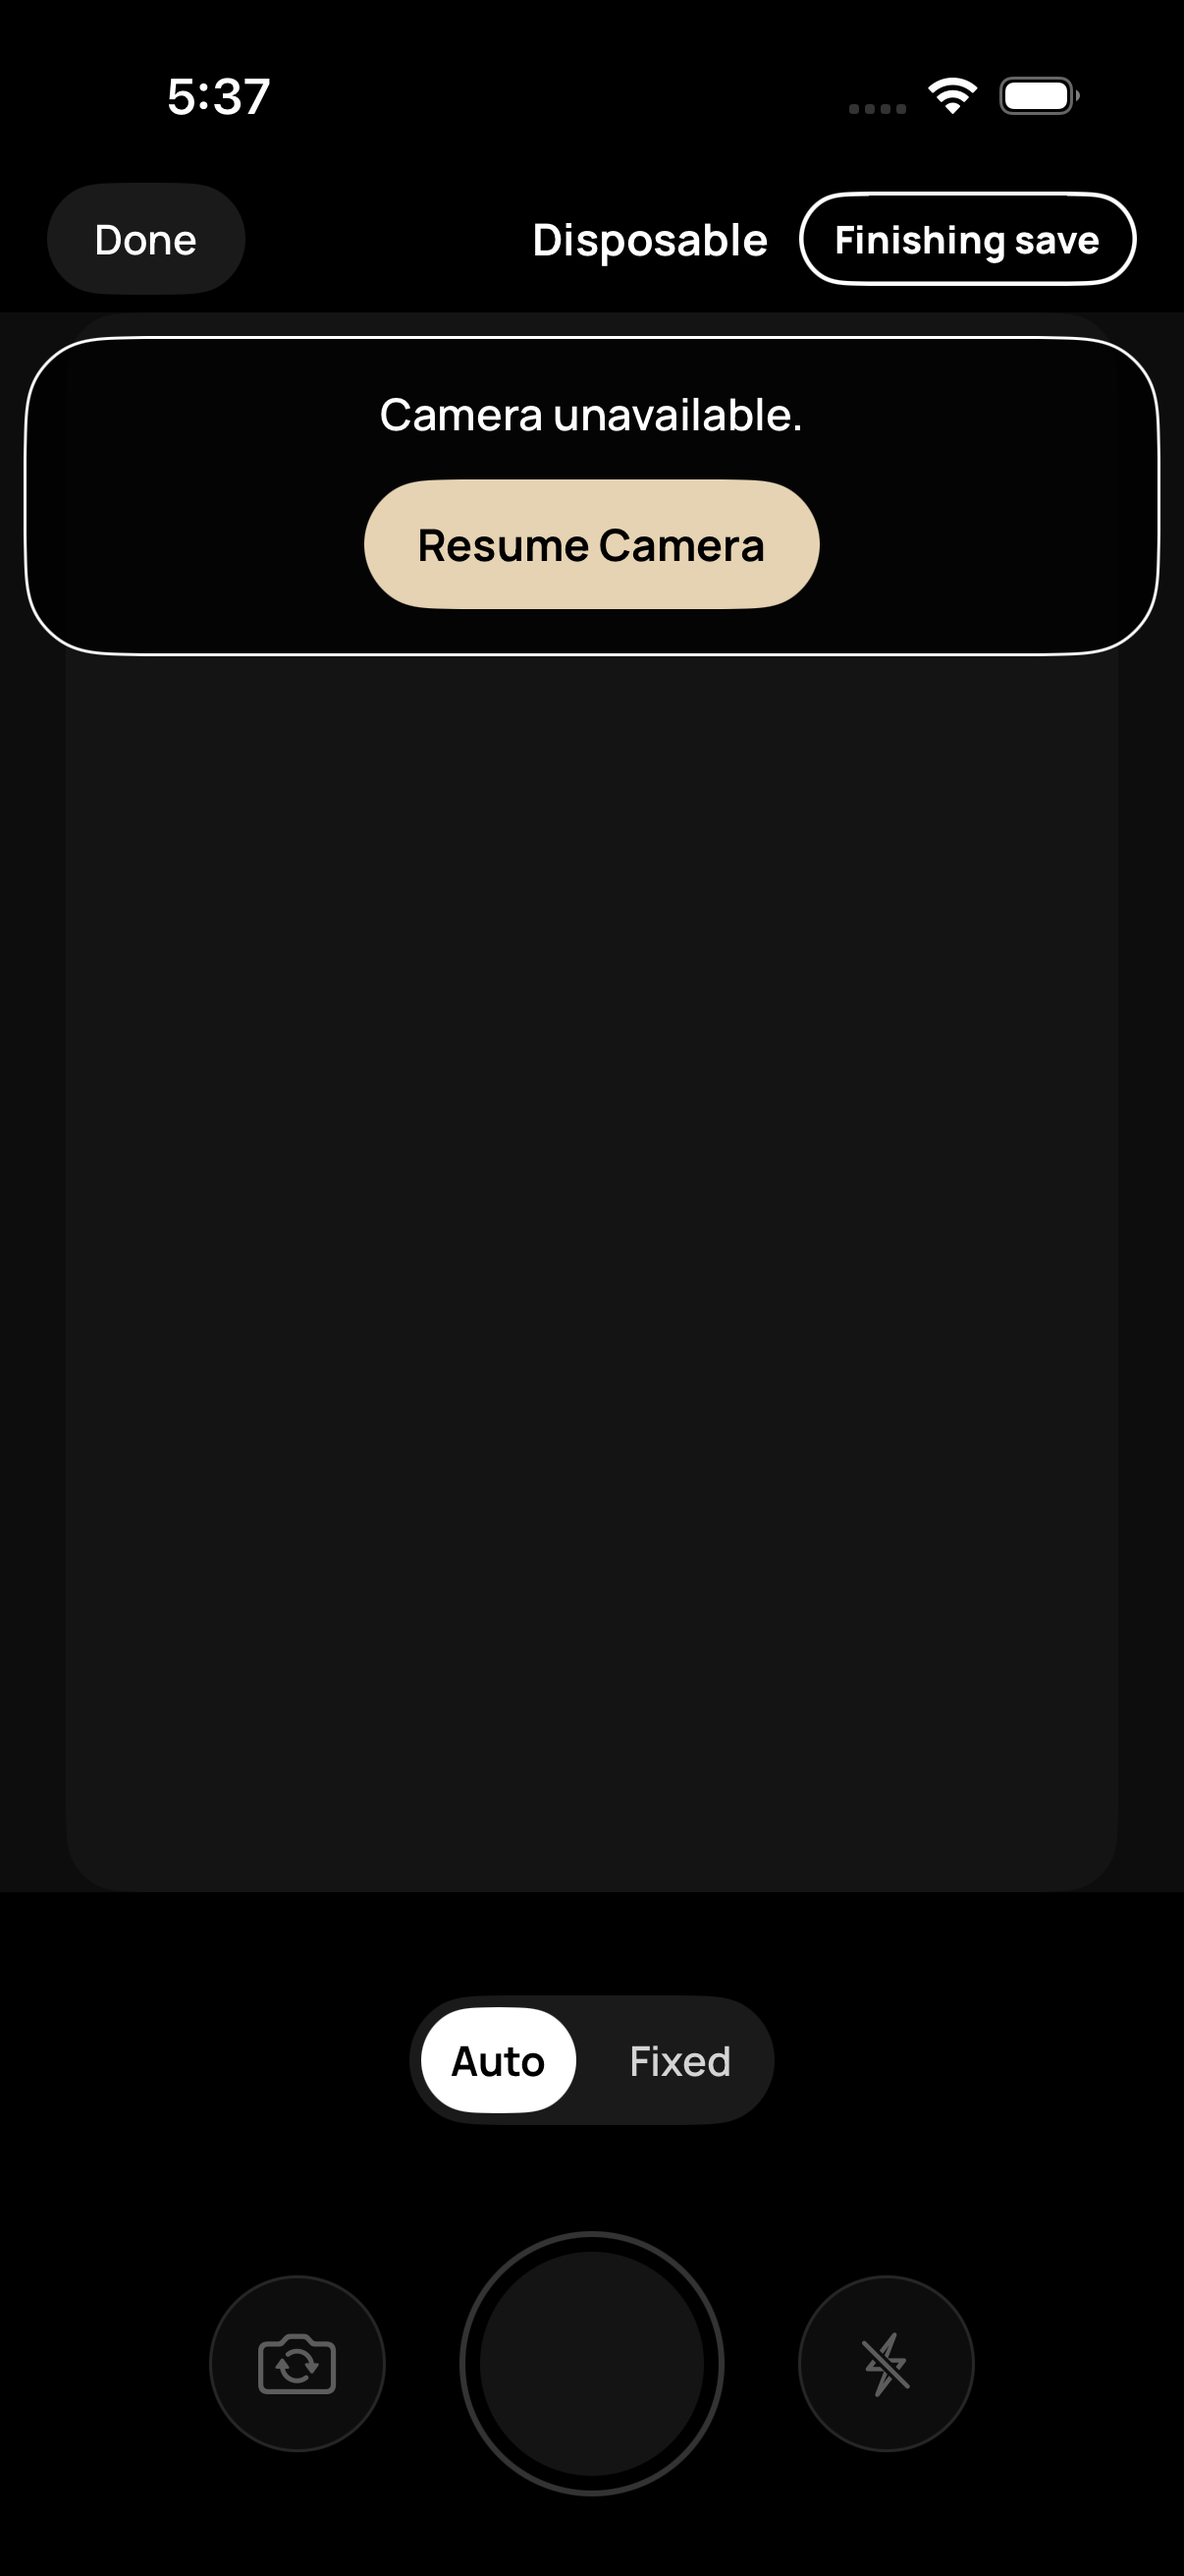
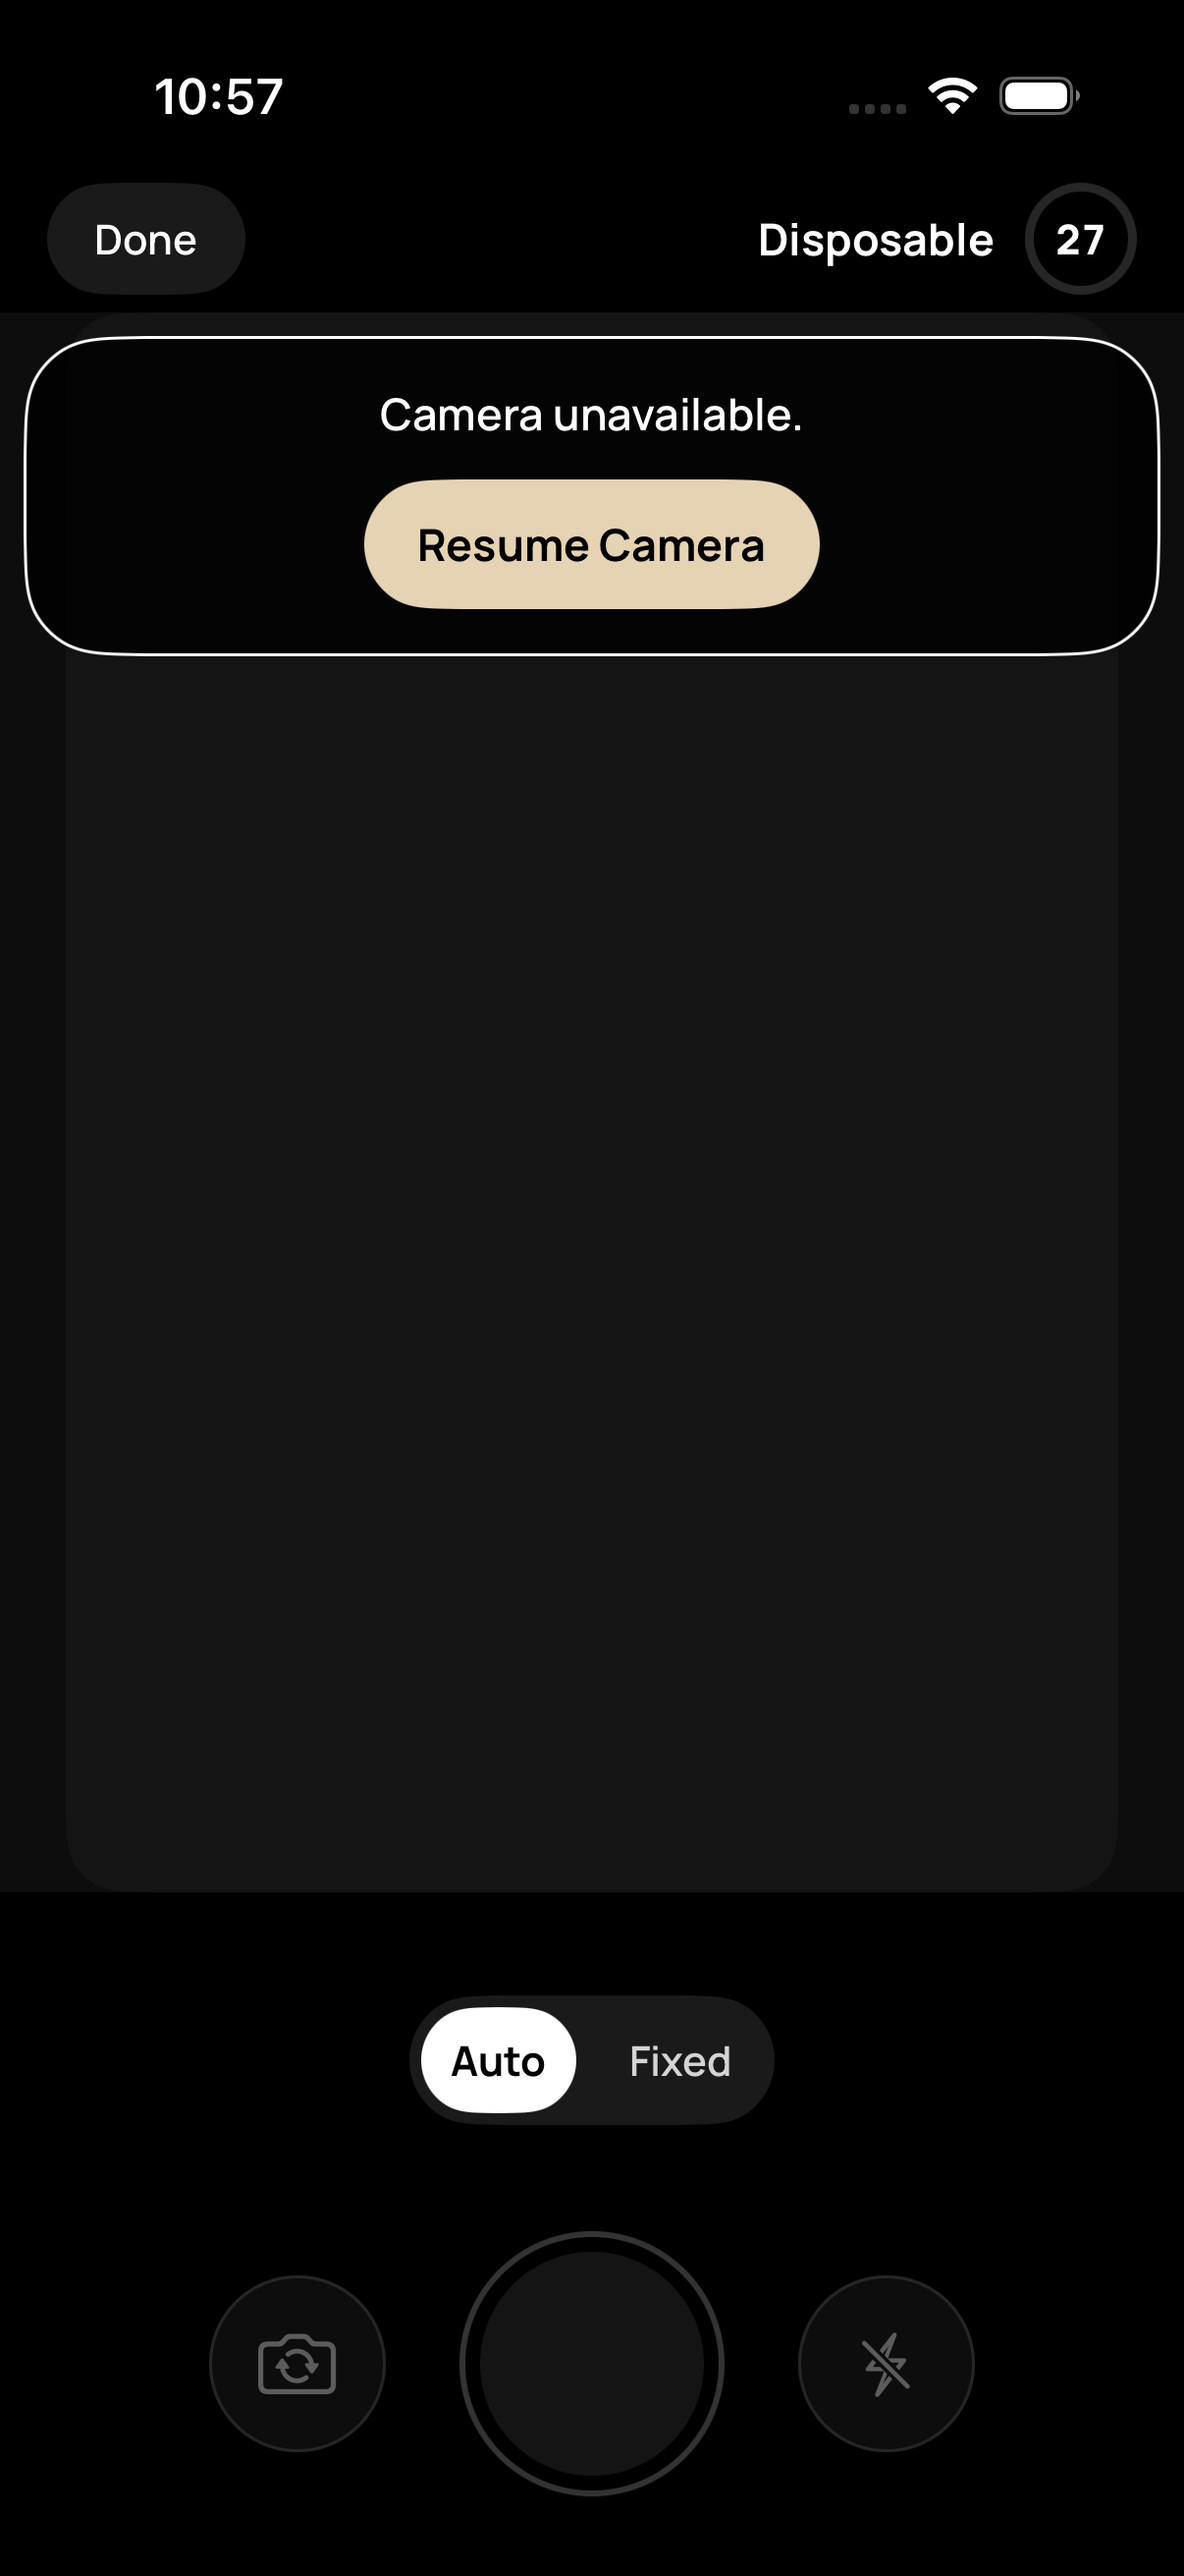
no-mistakes(test): Run Group Films Rolls' launch recovery so headers count exposures

Changed region(s): [[0.4909, 0.0618, 0.9511, 0.1236], [0.1227, 0.0309, 0.2454, 0.0618]]

diff --git a/App/Immerse/Sources/GroupFilms.swift b/App/Immerse/Sources/GroupFilms.swift
@@ -104,6 +104,9 @@ final class GroupFilms {
     var notice: String?
     private(set) var busy = false
     private var developing: Task<Void, Never>?
+    /// The Rolls' launch recovery, run once when Group Films start, as the personal Journal's is when it opens: until it
+    /// ends every Roll reads as finishing a save, and a save cut off mid-way is carried on.
+    private var recovering: Task<Void, Never>?
     private var uploading: Task<Void, Never>?
     private var developmentFailures: [String: Int] = [:]
     private var pathMonitor: NWPathMonitor?
@@ -134,6 +137,7 @@ final class GroupFilms {
         self.uploader = PictureUploader(functions: functions)
         places = (try? JSONDecoder().decode([LocalPlace].self, from: Data(contentsOf: placesURL))) ?? []
         hosting.accountDeleted = { [weak self] in self?.accountDeleted() }
+        recovering = Task { [rolls] in await rolls.recoverAtLaunch() }
     }
 
     // MARK: Places
@@ -519,6 +523,7 @@ final class GroupFilms {
     /// Learns what changed while the phone was away, for every place: a moved End Time, the reveal, a removal or a
     /// deleted event (V2-FR-31, V2-FR-53, V2-FR-55), and sends what it owes the server.
     func refresh() async {
+        await recovering?.value
         for place in places {
             guard place.asGuest || hosting.isSignedIn else { continue }
             await sync(place.eventID)

diff --git a/App/Immerse/ClipUITests/MiniAppUITests.swift b/App/Immerse/ClipUITests/MiniAppUITests.swift
@@ -56,6 +56,10 @@ final class MiniAppUITests: ScreenTestCase {
         // The shooting screen of the event's Camera is up; the simulator has no camera to show in it.
         XCTAssertTrue(app.buttons["capture-shutter"].exists(within: 20), "Taking a Roll opens the shooting screen")
         XCTAssertTrue(app.buttons["Done"].exists)
+        // The Roll's launch recovery has ended, so the header counts the exposures left rather than finishing a save.
+        let status = app.descendants(matching: .any)["capture-header-status"]
+        XCTAssertTrue(status.exists(within: 10))
+        XCTAssertTrue(status.label.contains("27"), "The header shows the exposures left, not \"\(status.label)\"")
         XCTAssertFalse(app.staticTexts["group-event-title"].isHittable, "The camera is over the event's page")
         keep(app, "MiniApp-shooting-screen")
 
